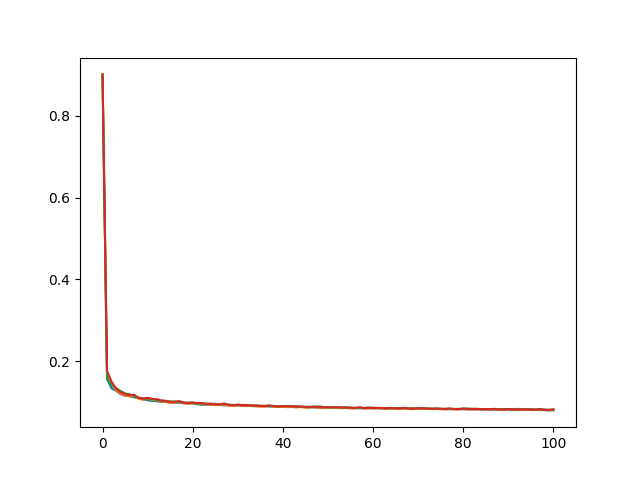
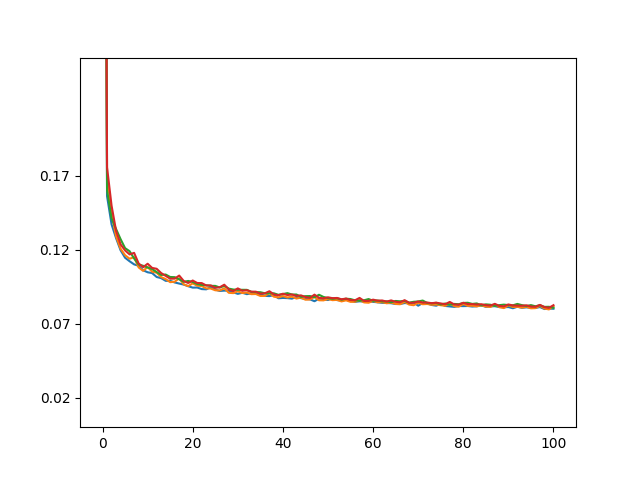
Part-2 Alphas

diff --git a/PA2/main.py b/PA2/main.py
@@ -310,7 +310,8 @@ if __name__ == "__main__":
         print("Figures folder does not exist. Creating ...")
         os.makedirs(figures_dir)
         print(f"Created {figures_dir}.")
-
+    plt.yticks(np.arange(0.02,0.2,0.05))
+    plt.gca().set_ylim([0,0.25])
     plt.plot(range(101), error_dict["w1tr"])
     plt.plot(range(101), error_dict["w2tr"])
     plt.plot(range(101), error_dict["w3tr"])
@@ -351,3 +352,28 @@ if __name__ == "__main__":
 
     # For at least three different algorithm configurations you explored in this Part, plot the resulting error against the number of epochs in two figures, one for Training error and one for Test error, just as you did for the evaluation in Part 1.
     # If you found hyperparameters that improved the performance in Steps 2, 3, and 4, use those hyperparameters for these figures.
+    # print(min(error_dict["w1tr"]))
+    # alphas = [10**-2, 2.5*10**-3, 5*10**-3, 7.5*10**-3]
+    # minErrors = []
+    # for i in alphas:
+    #     os.remove(algo_1_pickle_file)
+    #     algo_1_2_args["alpha"] = i
+    #     W1 = run_sgd(algo_1_pickle_file, 1, stochastic_gradient_descent, algo_1_2_args)
+    #     minErrors.append(min(get_error(Xs_tr, Ys_tr, W1)))
+    # os.remove(algo_1_pickle_file)
+    # print(minErrors)
+    # print(list(zip(minErrors, alphas)))
+
+    print("\n" + "NOW FOR 5 EPOCHS")
+    print(min(error_dict["w1tr"]))
+    alphas = [0.01, 0.02, 0.03]
+    minErrors = []
+    algo_1_2_args["num_epochs"] = num_epochs
+    for i in alphas:
+        os.remove(algo_1_pickle_file)
+        algo_1_2_args["alpha"] = i
+        W1 = run_sgd(algo_1_pickle_file, 1, stochastic_gradient_descent, algo_1_2_args)
+        minErrors.append(min(get_error(Xs_tr, Ys_tr, W1)))
+    os.remove(algo_1_pickle_file)
+    print(minErrors)
+    print(list(zip(minErrors, alphas)))
